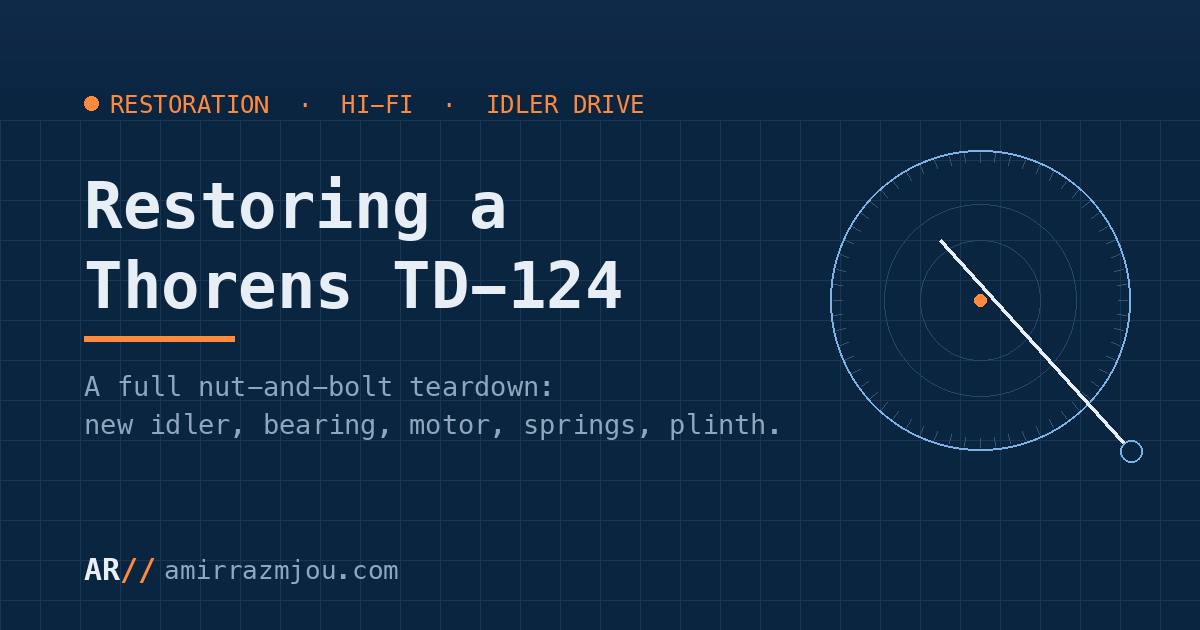
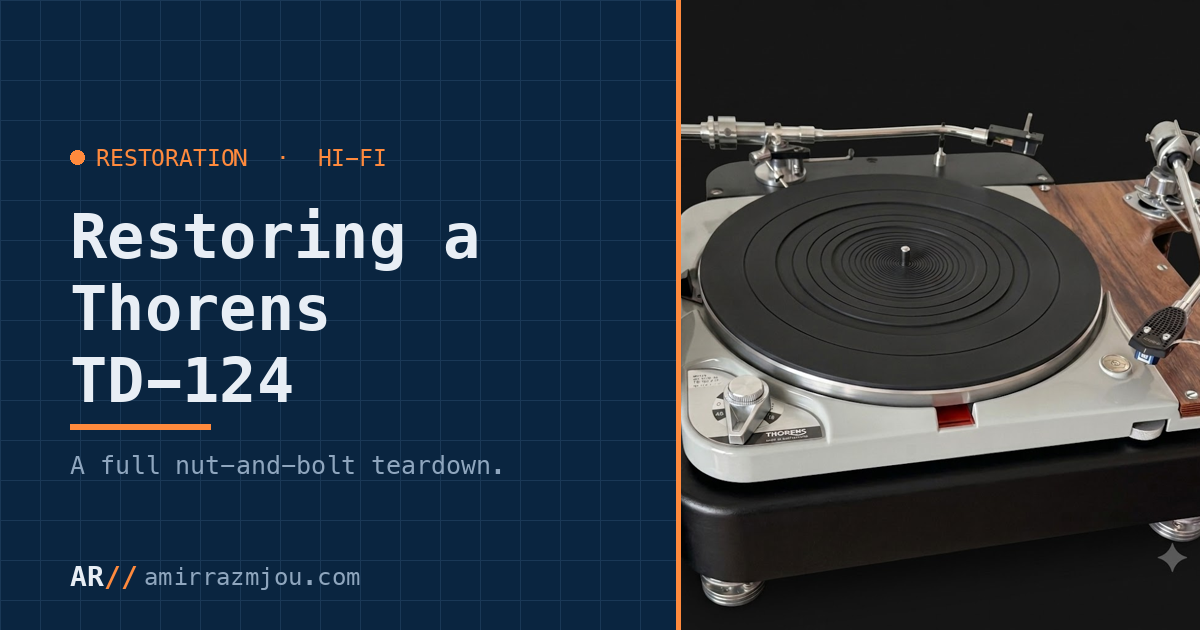
Add real photo of the restored TD-124 as the post hero
Swap the schematic top-view illustration for Amir's own photo of the finished
deck (optimized JPEG); add .fig img styling; update the OG card to a split
layout featuring the photo; tweak the arm description to match the twin-arm setup.

diff --git a/restoring-a-thorens-td-124/index.html b/restoring-a-thorens-td-124/index.html
@@ -247,6 +247,7 @@ footer a { color: var(--muted); }
 <style id="figs">
 .fig{margin:34px 0;border:1px solid var(--border);border-radius:14px;background:rgba(7,25,44,.45);padding:20px 18px}
 .fig svg{display:block;width:100%;height:auto;max-width:100%}
+.fig img{display:block;width:100%;height:auto;border-radius:10px}
 .fig figcaption{margin-top:14px;font-family:"JetBrains Mono",monospace;font-size:12px;line-height:1.55;color:var(--muted);text-align:center}
 .fig figcaption b{color:var(--accent-1);font-weight:500}
 </style>
@@ -286,8 +287,8 @@ footer a { color: var(--muted); }
 <p>Then there&#8217;s the party trick: a <strong>two-piece platter</strong>. A light aluminium top platter sits on the heavy cast-iron one through a clutch, and a lever lets you lift it &#8212; stopping the record dead for cueing &#8212; while ten pounds of iron underneath never loses a single rpm. It is gloriously over-engineered, and it is exactly that heft that makes it sound the way it does.</p>
 
 <figure class="fig">
-<svg viewBox="0 0 720 440" role="img" aria-label="Top view of a restored Thorens TD-124: a heavy cast-iron platter with a strobe rim, an SME-style tonearm, a four-speed selector and a start lever."><rect x="50" y="40" width="620" height="376" rx="16" fill="#7fb2e6" fill-opacity="0.05" stroke="#7fb2e6" stroke-opacity="0.4"/><text x="86" y="72" font-family="'JetBrains Mono',monospace" font-size="14" fill="#e8eef5" letter-spacing="1">THORENS</text><text x="86" y="92" font-family="'JetBrains Mono',monospace" font-size="12" fill="#ff8a3d" letter-spacing="2">TD-124</text><circle cx="290" cy="228" r="150" fill="#7fb2e6" fill-opacity="0.05" stroke="#7fb2e6" stroke-opacity="0.55"/><line x1="436.0" y1="228.0" x2="428.0" y2="228.0" stroke="#7fb2e6" stroke-opacity="0.45" stroke-width="1"/><line x1="435.4" y1="240.7" x2="427.5" y2="240.0" stroke="#7fb2e6" stroke-opacity="0.45" stroke-width="1"/><line x1="433.8" y1="253.4" x2="425.9" y2="252.0" stroke="#7fb2e6" stroke-opacity="0.45" stroke-width="1"/><line x1="431.0" y1="265.8" x2="423.3" y2="263.7" stroke="#7fb2e6" stroke-opacity="0.45" stroke-width="1"/><line x1="427.2" y1="277.9" x2="419.7" y2="275.2" stroke="#7fb2e6" stroke-opacity="0.45" stroke-width="1"/><line x1="422.3" y1="289.7" x2="415.1" y2="286.3" stroke="#7fb2e6" stroke-opacity="0.45" stroke-width="1"/><line x1="416.4" y1="301.0" x2="409.5" y2="297.0" stroke="#7fb2e6" stroke-opacity="0.45" stroke-width="1"/><line x1="409.6" y1="311.7" x2="403.0" y2="307.2" stroke="#7fb2e6" stroke-opacity="0.45" stroke-width="1"/><line x1="401.8" y1="321.8" x2="395.7" y2="316.7" stroke="#7fb2e6" stroke-opacity="0.45" stroke-width="1"/><line x1="393.2" y1="331.2" x2="387.6" y2="325.6" stroke="#7fb2e6" stroke-opacity="0.45" stroke-width="1"/><line x1="383.8" y1="339.8" x2="378.7" y2="333.7" stroke="#7fb2e6" stroke-opacity="0.45" stroke-width="1"/><line x1="373.7" y1="347.6" x2="369.2" y2="341.0" stroke="#7fb2e6" stroke-opacity="0.45" stroke-width="1"/><line x1="363.0" y1="354.4" x2="359.0" y2="347.5" stroke="#7fb2e6" stroke-opacity="0.45" stroke-width="1"/><line x1="351.7" y1="360.3" x2="348.3" y2="353.1" stroke="#7fb2e6" stroke-opacity="0.45" stroke-width="1"/><line x1="339.9" y1="365.2" x2="337.2" y2="357.7" stroke="#7fb2e6" stroke-opacity="0.45" stroke-width="1"/><line x1="327.8" y1="369.0" x2="325.7" y2="361.3" stroke="#7fb2e6" stroke-opacity="0.45" stroke-width="1"/><line x1="315.4" y1="371.8" x2="314.0" y2="363.9" stroke="#7fb2e6" stroke-opacity="0.45" stroke-width="1"/><line x1="302.7" y1="373.4" x2="302.0" y2="365.5" stroke="#7fb2e6" stroke-opacity="0.45" stroke-width="1"/><line x1="290.0" y1="374.0" x2="290.0" y2="366.0" stroke="#7fb2e6" stroke-opacity="0.45" stroke-width="1"/><line x1="277.3" y1="373.4" x2="278.0" y2="365.5" stroke="#7fb2e6" stroke-opacity="0.45" stroke-width="1"/><line x1="264.6" y1="371.8" x2="266.0" y2="363.9" stroke="#7fb2e6" stroke-opacity="0.45" stroke-width="1"/><line x1="252.2" y1="369.0" x2="254.3" y2="361.3" stroke="#7fb2e6" stroke-opacity="0.45" stroke-width="1"/><line x1="240.1" y1="365.2" x2="242.8" y2="357.7" stroke="#7fb2e6" stroke-opacity="0.45" stroke-width="1"/><line x1="228.3" y1="360.3" x2="231.7" y2="353.1" stroke="#7fb2e6" stroke-opacity="0.45" stroke-width="1"/><line x1="217.0" y1="354.4" x2="221.0" y2="347.5" stroke="#7fb2e6" stroke-opacity="0.45" stroke-width="1"/><line x1="206.3" y1="347.6" x2="210.8" y2="341.0" stroke="#7fb2e6" stroke-opacity="0.45" stroke-width="1"/><line x1="196.2" y1="339.8" x2="201.3" y2="333.7" stroke="#7fb2e6" stroke-opacity="0.45" stroke-width="1"/><line x1="186.8" y1="331.2" x2="192.4" y2="325.6" stroke="#7fb2e6" stroke-opacity="0.45" stroke-width="1"/><line x1="178.2" y1="321.8" x2="184.3" y2="316.7" stroke="#7fb2e6" stroke-opacity="0.45" stroke-width="1"/><line x1="170.4" y1="311.7" x2="177.0" y2="307.2" stroke="#7fb2e6" stroke-opacity="0.45" stroke-width="1"/><line x1="163.6" y1="301.0" x2="170.5" y2="297.0" stroke="#7fb2e6" stroke-opacity="0.45" stroke-width="1"/><line x1="157.7" y1="289.7" x2="164.9" y2="286.3" stroke="#7fb2e6" stroke-opacity="0.45" stroke-width="1"/><line x1="152.8" y1="277.9" x2="160.3" y2="275.2" stroke="#7fb2e6" stroke-opacity="0.45" stroke-width="1"/><line x1="149.0" y1="265.8" x2="156.7" y2="263.7" stroke="#7fb2e6" stroke-opacity="0.45" stroke-width="1"/><line x1="146.2" y1="253.4" x2="154.1" y2="252.0" stroke="#7fb2e6" stroke-opacity="0.45" stroke-width="1"/><line x1="144.6" y1="240.7" x2="152.5" y2="240.0" stroke="#7fb2e6" stroke-opacity="0.45" stroke-width="1"/><line x1="144.0" y1="228.0" x2="152.0" y2="228.0" stroke="#7fb2e6" stroke-opacity="0.45" stroke-width="1"/><line x1="144.6" y1="215.3" x2="152.5" y2="216.0" stroke="#7fb2e6" stroke-opacity="0.45" stroke-width="1"/><line x1="146.2" y1="202.6" x2="154.1" y2="204.0" stroke="#7fb2e6" stroke-opacity="0.45" stroke-width="1"/><line x1="149.0" y1="190.2" x2="156.7" y2="192.3" stroke="#7fb2e6" stroke-opacity="0.45" stroke-width="1"/><line x1="152.8" y1="178.1" x2="160.3" y2="180.8" stroke="#7fb2e6" stroke-opacity="0.45" stroke-width="1"/><line x1="157.7" y1="166.3" x2="164.9" y2="169.7" stroke="#7fb2e6" stroke-opacity="0.45" stroke-width="1"/><line x1="163.6" y1="155.0" x2="170.5" y2="159.0" stroke="#7fb2e6" stroke-opacity="0.45" stroke-width="1"/><line x1="170.4" y1="144.3" x2="177.0" y2="148.8" stroke="#7fb2e6" stroke-opacity="0.45" stroke-width="1"/><line x1="178.2" y1="134.2" x2="184.3" y2="139.3" stroke="#7fb2e6" stroke-opacity="0.45" stroke-width="1"/><line x1="186.8" y1="124.8" x2="192.4" y2="130.4" stroke="#7fb2e6" stroke-opacity="0.45" stroke-width="1"/><line x1="196.2" y1="116.2" x2="201.3" y2="122.3" stroke="#7fb2e6" stroke-opacity="0.45" stroke-width="1"/><line x1="206.3" y1="108.4" x2="210.8" y2="115.0" stroke="#7fb2e6" stroke-opacity="0.45" stroke-width="1"/><line x1="217.0" y1="101.6" x2="221.0" y2="108.5" stroke="#7fb2e6" stroke-opacity="0.45" stroke-width="1"/><line x1="228.3" y1="95.7" x2="231.7" y2="102.9" stroke="#7fb2e6" stroke-opacity="0.45" stroke-width="1"/><line x1="240.1" y1="90.8" x2="242.8" y2="98.3" stroke="#7fb2e6" stroke-opacity="0.45" stroke-width="1"/><line x1="252.2" y1="87.0" x2="254.3" y2="94.7" stroke="#7fb2e6" stroke-opacity="0.45" stroke-width="1"/><line x1="264.6" y1="84.2" x2="266.0" y2="92.1" stroke="#7fb2e6" stroke-opacity="0.45" stroke-width="1"/><line x1="277.3" y1="82.6" x2="278.0" y2="90.5" stroke="#7fb2e6" stroke-opacity="0.45" stroke-width="1"/><line x1="290.0" y1="82.0" x2="290.0" y2="90.0" stroke="#7fb2e6" stroke-opacity="0.45" stroke-width="1"/><line x1="302.7" y1="82.6" x2="302.0" y2="90.5" stroke="#7fb2e6" stroke-opacity="0.45" stroke-width="1"/><line x1="315.4" y1="84.2" x2="314.0" y2="92.1" stroke="#7fb2e6" stroke-opacity="0.45" stroke-width="1"/><line x1="327.8" y1="87.0" x2="325.7" y2="94.7" stroke="#7fb2e6" stroke-opacity="0.45" stroke-width="1"/><line x1="339.9" y1="90.8" x2="337.2" y2="98.3" stroke="#7fb2e6" stroke-opacity="0.45" stroke-width="1"/><line x1="351.7" y1="95.7" x2="348.3" y2="102.9" stroke="#7fb2e6" stroke-opacity="0.45" stroke-width="1"/><line x1="363.0" y1="101.6" x2="359.0" y2="108.5" stroke="#7fb2e6" stroke-opacity="0.45" stroke-width="1"/><line x1="373.7" y1="108.4" x2="369.2" y2="115.0" stroke="#7fb2e6" stroke-opacity="0.45" stroke-width="1"/><line x1="383.8" y1="116.2" x2="378.7" y2="122.3" stroke="#7fb2e6" stroke-opacity="0.45" stroke-width="1"/><line x1="393.2" y1="124.8" x2="387.6" y2="130.4" stroke="#7fb2e6" stroke-opacity="0.45" stroke-width="1"/><line x1="401.8" y1="134.2" x2="395.7" y2="139.3" stroke="#7fb2e6" stroke-opacity="0.45" stroke-width="1"/><line x1="409.6" y1="144.3" x2="403.0" y2="148.8" stroke="#7fb2e6" stroke-opacity="0.45" stroke-width="1"/><line x1="416.4" y1="155.0" x2="409.5" y2="159.0" stroke="#7fb2e6" stroke-opacity="0.45" stroke-width="1"/><line x1="422.3" y1="166.3" x2="415.1" y2="169.7" stroke="#7fb2e6" stroke-opacity="0.45" stroke-width="1"/><line x1="427.2" y1="178.1" x2="419.7" y2="180.8" stroke="#7fb2e6" stroke-opacity="0.45" stroke-width="1"/><line x1="431.0" y1="190.2" x2="423.3" y2="192.3" stroke="#7fb2e6" stroke-opacity="0.45" stroke-width="1"/><line x1="433.8" y1="202.6" x2="425.9" y2="204.0" stroke="#7fb2e6" stroke-opacity="0.45" stroke-width="1"/><line x1="435.4" y1="215.3" x2="427.5" y2="216.0" stroke="#7fb2e6" stroke-opacity="0.45" stroke-width="1"/><circle cx="290" cy="228" r="118" fill="none" stroke="#7fb2e6" stroke-opacity="0.15"/><circle cx="290" cy="228" r="86" fill="none" stroke="#7fb2e6" stroke-opacity="0.15"/><circle cx="290" cy="228" r="54" fill="none" stroke="#7fb2e6" stroke-opacity="0.15"/><circle cx="290" cy="228" r="128" fill="none" stroke="#7fb2e6" stroke-opacity="0.25" stroke-dasharray="4 5"/><circle cx="290" cy="228" r="7" fill="#ff8a3d" fill-opacity="0.7" stroke="#ff8a3d"/><line x1="606" y1="330" x2="340" y2="160" stroke="#e8eef5" stroke-opacity="0.8" stroke-width="3"/><line x1="606" y1="330" x2="652" y2="356" stroke="#e8eef5" stroke-opacity="0.7" stroke-width="5"/><circle cx="606" cy="330" r="11" fill="#7fb2e6" fill-opacity="0.2" stroke="#7fb2e6" stroke-width="1.5"/><rect x="646" y="346" width="22" height="20" rx="4" fill="#e8eef5" fill-opacity="0.25" stroke="#e8eef5" stroke-opacity="0.5"/><rect x="326" y="150" width="26" height="16" rx="3" fill="#ff8a3d" fill-opacity="0.25" stroke="#ff8a3d"/><circle cx="122" cy="338" r="24" fill="#7fb2e6" fill-opacity="0.08" stroke="#7fb2e6" stroke-opacity="0.5"/><line x1="122" y1="338" x2="122" y2="318" stroke="#ff8a3d" stroke-width="2.5"/><text x="122" y="384" text-anchor="middle" font-family="'JetBrains Mono',monospace" font-size="10" fill="#8fa6be">16 &#183; 33 &#183; 45 &#183; 78</text><rect x="168" y="320" width="58" height="26" rx="6" fill="#ff8a3d" fill-opacity="0.1" stroke="#ff8a3d" stroke-opacity="0.6"/><text x="197" y="337" text-anchor="middle" font-family="'JetBrains Mono',monospace" font-size="10" fill="#e8eef5">START</text><line x1="430" y1="120" x2="500" y2="96" stroke="#8fa6be" stroke-opacity="0.5"/><text x="506" y="100" font-family="'JetBrains Mono',monospace" font-size="10.5" fill="#8fa6be">strobe rim</text><line x1="470" y1="250" x2="540" y2="262" stroke="#8fa6be" stroke-opacity="0.5"/><text x="546" y="266" font-family="'JetBrains Mono',monospace" font-size="10.5" fill="#8fa6be">SME-style arm</text><line x1="300" y1="300" x2="300" y2="360" stroke="#8fa6be" stroke-opacity="0.4"/><text x="300" y="376" text-anchor="middle" font-family="'JetBrains Mono',monospace" font-size="10.5" fill="#8fa6be">10-lb cast-iron platter</text></svg>
-<figcaption>The restored deck from above &#8212; a 10-lb cast-iron platter with its <b>strobe rim</b>, a four-speed selector, and an SME-style arm.</figcaption>
+<img src="/images/td-124.jpg" width="990" height="1024" loading="lazy" alt="The restored Thorens TD-124: a cream Swiss chassis with a heavy black platter and a pair of tonearms, mounted on a black leather-wrapped plinth with chrome feet.">
+<figcaption>The finished deck &#8212; the restored TD-124 on a leather-wrapped plinth, set up with a pair of tonearms.</figcaption>
 </figure>
 
 <h2>The teardown: replace everything that wears</h2>
@@ -301,7 +302,7 @@ footer a { color: var(--muted); }
 <figcaption>Exploded, top to bottom: the hybrid <b>belt-and-idler</b> drive, the precision bearing, the floating suspension &#8212; every wear part renewed.</figcaption>
 </figure>
 
-<p>The original plinth was tired, so I built a new one out of solid walnut and fitted a classic <strong>SME 3009</strong> arm with an Ortofon cartridge &#8212; the pairing the table was practically designed for.</p>
+<p>The original plinth was tired, so I built a new one out of solid walnut and fitted a pair of classic arms &#8212; an <strong>SME 3009</strong> among them &#8212; and an Ortofon cartridge, the kind of pairing this table was practically designed for.</p>
 
 <h2>The fiddly bits</h2>
 
